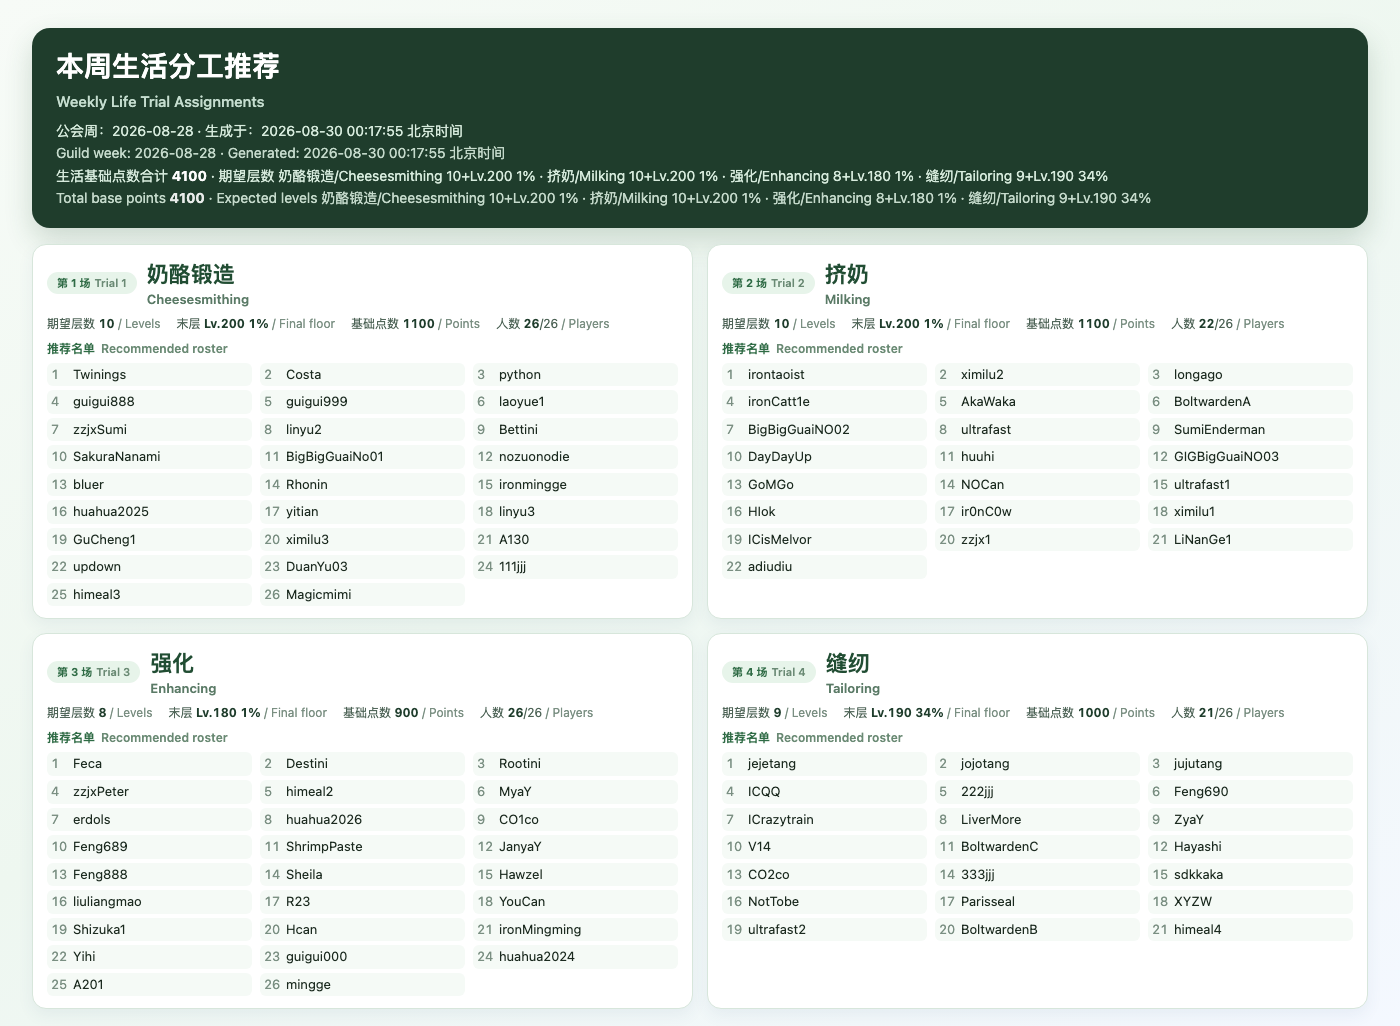
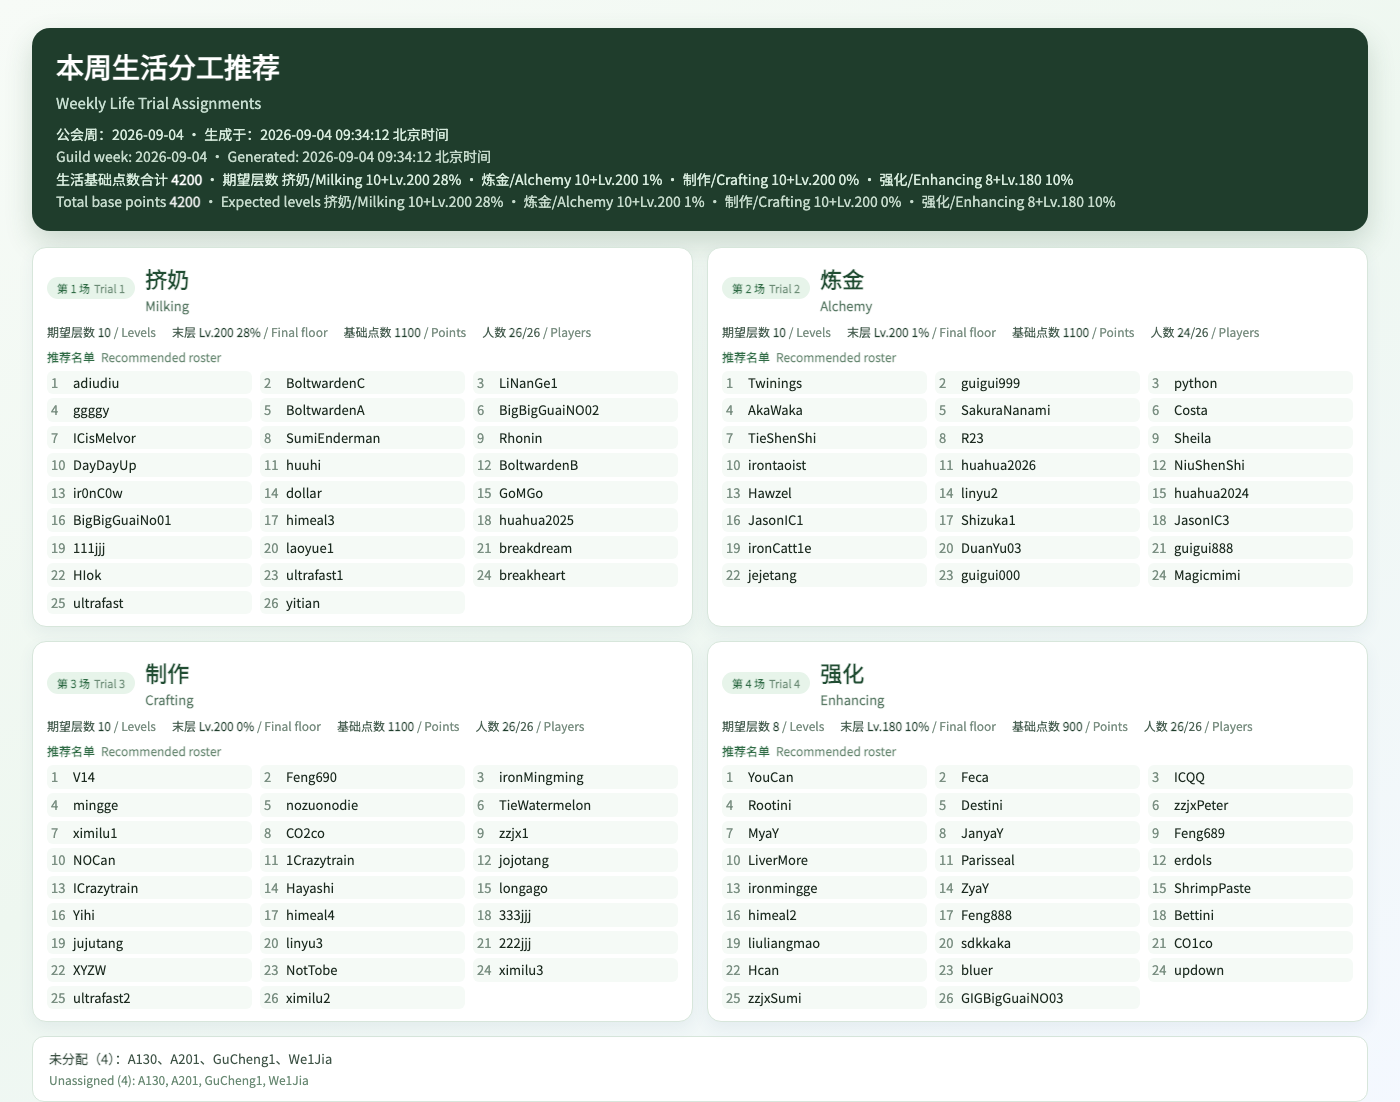
chore: refresh life assignment report (2026-09-04T00:00:00.000Z, 4200 pts)

Changed region(s): [[0.0, 0.0312, 0.9829, 0.9981], [0.3993, 0.9981, 0.9829, 1.0]]

diff --git a/reports/WI/combat-assignment/index.html b/reports/WI/combat-assignment/index.html
@@ -132,7 +132,7 @@
     <div class="header-text">
       <h1><span class="i18n" data-zh="本周分工" data-en="Weekly Assignments">本周分工</span></h1>
       <div class="meta">
-        <span class="i18n" data-zh="战斗方案：" data-en="Combat plan: ">战斗方案：</span>2026-08-30 21:18:51 北京时间
+        <span class="i18n" data-zh="战斗方案：" data-en="Combat plan: ">战斗方案：</span>2026-09-04 09:34:12 北京时间
         <span class="i18n" data-zh=" · 点选下方条目浏览生活/战斗图片" data-en=" · Pick a tab to browse life/combat images"> · 点选下方条目浏览生活/战斗图片</span>
       </div>
     </div>
@@ -141,26 +141,13 @@
       <button type="button" class="lang-btn" data-lang="en">English</button>
     </div>
   </header>
-  <pre class="summary" id="summaryBlock">WI 可用人员重排组合搜索（不按报名，开发实验不可转正）
-可用 87 人；不可用 14 人；最优分区：phys-chameleon-magic-swarm-heal60
-规则：物理职业去变色龙、魔法职业去虫群；两边各留至少2个必要覆盖（烟爆/法力喷泉/冰霜爆裂/粉尘/疫病/破甲/碎裂/致残/血刃）；自然奶按武器强化/魔法改输出 x（chameleon=0，swarm=9），输出技能元素增幅/粉尘/菌幕/缠绕，剩余自然仍群疗；非光环默认复活、前x输出改疯狂（chameleon=37，swarm=20）；攻击≥110；双 Boss 人员互斥；无复制人。
-【试炼变色龙】48人；3次 9–9 层；DPS≈3513；末层平均68.0%；死亡 2–5；前37输出疯狂
-技能包：st-ranged-pestilent-flameblast
-职业：弓2 弩19 水1 自6 盾2 枪1 剑3 锤14
-职责：坦克2 奶6 减8 输出32
-名单：jojotang(弓)、jujutang(弓)、TieShenShi(弩)、ximilu1(弩)、guigui000(弩)、guigui888(弩)、guigui999(弩)、Hawzel(弩)、himeal2(弩)、ICQQ(弩)、zzjx1(弩)、ironCatt1e(弩)、linyu3(弩)、LiverMore(弩)、longago(弩)、mingge(弩)、Yihi(弩)、NOCan(弩)、Parisseal(弩)、R23(弩)、Rootini(弩)、ICrazytrain(水)、Sheila(自)、V14(自)、We1Jia(自)、NotTobe(自)、liuliangmao(自)、sdkkaka(自)、AkaWaka(盾)、himeal3(盾)、CO1co(枪)、huahua2025(剑)、GoMGo(剑)、SumiEnderman(剑)、BigBigGuaiNO02(锤)、bluer(锤)、DuanYu03(锤)、Feca(锤)、GIGBigGuaiNO03(锤)、updown(锤)、HIok(锤)、huahua2024(锤)、huahua2026(锤)、huuhi(锤)、ironmingge(锤)、nozuonodie(锤)、Rhonin(锤)、BigBigGuaiNo01(锤)
-【试炼虫群】39人（每层4只）；3次 7–7 层；DPS≈3253；末层平均40.7%；死亡 0–0；前20输出疯狂；9名自然奶改输出
-技能包：aoe-precision-rain-smoke2
-职业：弓3 弩8 水1 自13 盾2 枪2 剑3 锤7
-职责：坦克2 奶4 减9 输出24
-名单：333jjj(弓)、jejetang(弓)、ShrimpPaste(弓)、BoltwardenA(弩)、BoltwardenB(弩)、BoltwardenC(弩)、TieWatermelon(弩)、ultrafast2(弩)、CO2co(弩)、NiuShenShi(弩)、ir0nC0w(弩)、ironMingming(水)、222jjj(自)、breakdream(自)、breakheart(自)、Destini(自)、erdols(自)、Hayashi(自)、Hcan(自)、himeal4(自)、ICisMelvor(自)、LiNanGe1(自)、linyu2(自)、ximilu2(自)、YouCan(自)、Shizuka1(盾)、ultrafast1(盾)、Bettini(枪)、DayDayUp(枪)、adiudiu(剑)、laoyue1(剑)、ximilu3(剑)、111jjj(锤)、SakuraNanami(锤)、ultrafast(锤)、GuCheng1(锤)、yitian(锤)、zzjxPeter(锤)、zzjxSumi(锤)
-全库不可用：Feng689/锤(近战等级不足（121&lt;125）)、Feng690/弩(缺少T95或精炼★T95武器)、Costa/火(缺少T95或精炼★T95武器)、Twinings/火(缺少T95或精炼★T95武器)、python/火(缺少T95或精炼★T95武器)、A130/自(魔法等级不足（122&lt;125）)、A201/弩(远程等级不足（121&lt;125）)、XYZW/自(缺少T95或精炼★T95武器)、JanyaY/弩(远程等级不足（118&lt;125）)、MyaY/弩(缺少T95或精炼★T95武器)、ZyaY/弩(缺少T95或精炼★T95武器)、irontaoist/锤(缺少T95或精炼★T95武器)、Magicmimi/自(魔法等级不足（123&lt;125）)、Feng888/盾(盾超额（防御125较低，每边只带2盾）)</pre>
+  
   <nav class="tabs" aria-label="Weekly assignment images">
       <button type="button" class="tab active" data-index="0" data-src-zh="../life-assignment/latest.png" data-src-en="../life-assignment/latest.png" data-label-zh="生活分工" data-label-en="Life Trials"><span class="i18n" data-zh="生活分工" data-en="Life Trials">生活分工</span></button>
-      <button type="button" class="tab" data-index="1" data-src-zh="1-chameleon-summary.png" data-src-en="1-chameleon-summary.en.png" data-label-zh="变色龙 · 阵容与技能" data-label-en="Trial Chameleon · Roster &amp; Skills"><span class="i18n" data-zh="变色龙 · 阵容与技能" data-en="Trial Chameleon · Roster &amp; Skills">变色龙 · 阵容与技能</span></button>
-      <button type="button" class="tab" data-index="2" data-src-zh="1-chameleon-members.png" data-src-en="1-chameleon-members.en.png" data-label-zh="变色龙 · 成员明细" data-label-en="Trial Chameleon · 48 Member Breakdown"><span class="i18n" data-zh="变色龙 · 成员明细" data-en="Trial Chameleon · 48 Member Breakdown">变色龙 · 成员明细</span></button>
-      <button type="button" class="tab" data-index="3" data-src-zh="2-swarm-summary.png" data-src-en="2-swarm-summary.en.png" data-label-zh="虫群 · 阵容与技能" data-label-en="Trial Swarm · Roster &amp; Skills"><span class="i18n" data-zh="虫群 · 阵容与技能" data-en="Trial Swarm · Roster &amp; Skills">虫群 · 阵容与技能</span></button>
-      <button type="button" class="tab" data-index="4" data-src-zh="2-swarm-members.png" data-src-en="2-swarm-members.en.png" data-label-zh="虫群 · 成员明细" data-label-en="Trial Swarm · 39 Member Breakdown"><span class="i18n" data-zh="虫群 · 成员明细" data-en="Trial Swarm · 39 Member Breakdown">虫群 · 成员明细</span></button>
+      <button type="button" class="tab" data-index="1" data-src-zh="1-chameleon-summary.png" data-src-en="1-chameleon-summary.en.png" data-label-zh="变色龙 · 阵容与技能" data-label-en="Chameleon · Roster &amp; Skills"><span class="i18n" data-zh="变色龙 · 阵容与技能" data-en="Chameleon · Roster &amp; Skills">变色龙 · 阵容与技能</span></button>
+      <button type="button" class="tab" data-index="2" data-src-zh="1-chameleon-members.png" data-src-en="1-chameleon-members.en.png" data-label-zh="变色龙 · 成员明细" data-label-en="Chameleon · Members"><span class="i18n" data-zh="变色龙 · 成员明细" data-en="Chameleon · Members">变色龙 · 成员明细</span></button>
+      <button type="button" class="tab" data-index="3" data-src-zh="2-swarm-summary.png" data-src-en="2-swarm-summary.en.png" data-label-zh="虫群 · 阵容与技能" data-label-en="Swarm · Roster &amp; Skills"><span class="i18n" data-zh="虫群 · 阵容与技能" data-en="Swarm · Roster &amp; Skills">虫群 · 阵容与技能</span></button>
+      <button type="button" class="tab" data-index="4" data-src-zh="2-swarm-members.png" data-src-en="2-swarm-members.en.png" data-label-zh="虫群 · 成员明细" data-label-en="Swarm · Members"><span class="i18n" data-zh="虫群 · 成员明细" data-en="Swarm · Members">虫群 · 成员明细</span></button>
   </nav>
   <main>
     <p class="caption" id="caption"></p>

diff --git a/reports/WI/life-assignment/README.md b/reports/WI/life-assignment/README.md
@@ -1,8 +1,8 @@
 # 本周生活分工
 
-- 公会周：`2026-08-28T00:00:00.000Z`
-- 生成时间：`2026-08-29T16:17:55.151Z`
-- 基础点数合计：`4100`
+- 公会周：`2026-09-04T00:00:00.000Z`
+- 生成时间：`2026-09-04T01:34:12.860Z`
+- 基础点数合计：`4200`
 
 图片：https://raw.githubusercontent.com/xiahuaaaa/mwi-guild-trial-helper/main/reports/WI/life-assignment/latest.png
 JSON：https://raw.githubusercontent.com/xiahuaaaa/mwi-guild-trial-helper/main/reports/WI/life-assignment/latest.json
